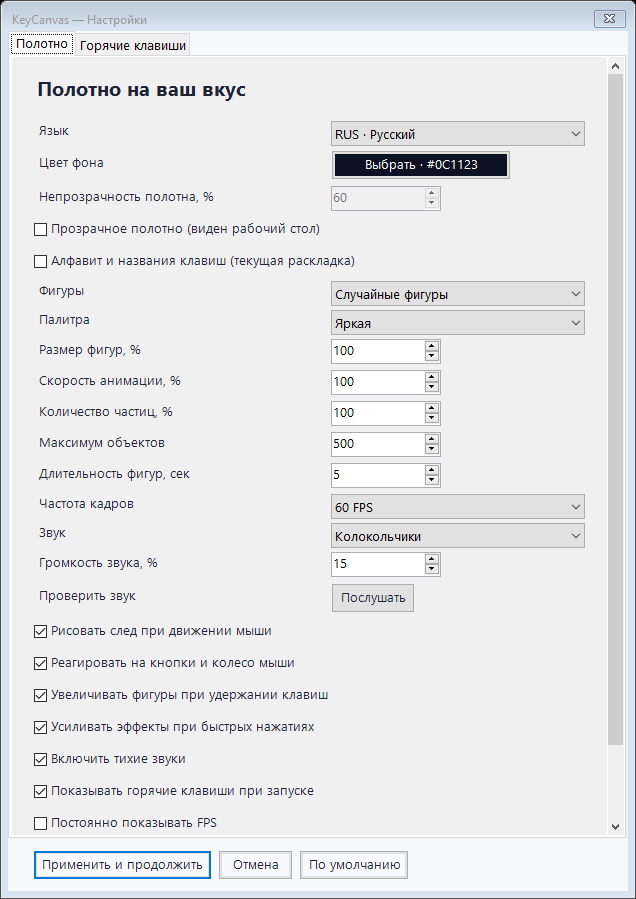
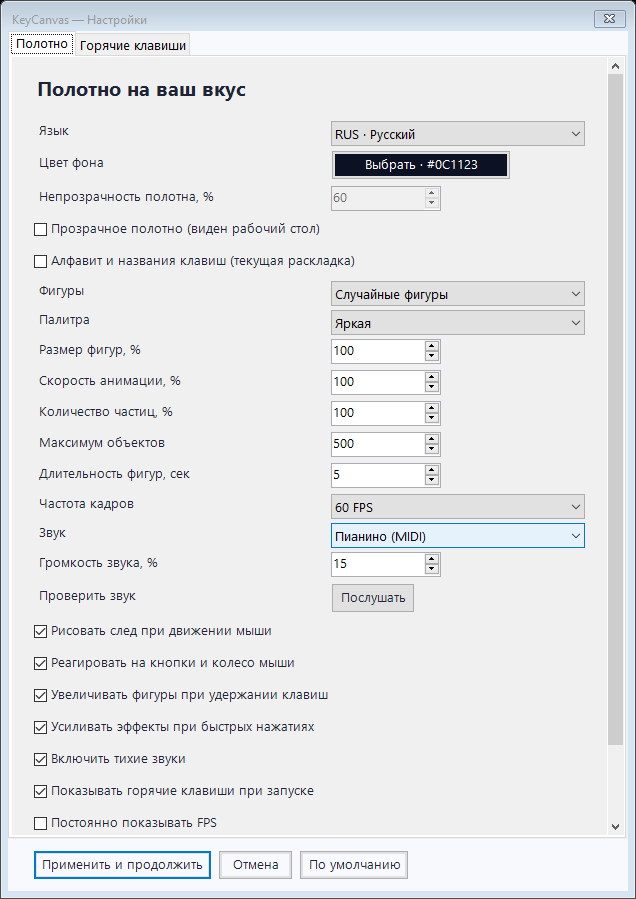
Restored soft sounds and fixed shared MIDI previews with piano as default

Changed region(s): [[0.5079, 0.5606, 0.9261, 0.6229]]

diff --git a/SoftCanvasSound.cs b/SoftCanvasSound.cs
@@ -1,0 +1,109 @@
+using System.Media;
+using System.Text;
+
+namespace KeyCanvas;
+
+internal sealed class SoftCanvasSound : IDisposable
+{
+    private static readonly double[] Notes = [261.63, 293.66, 329.63, 392, 440, 523.25, 587.33, 659.25];
+    private readonly List<SoundPlayer> players = new();
+    private readonly List<MemoryStream> streams = new();
+    private SoundStyle preparedStyle;
+    private int preparedVolume;
+    private bool enabled;
+    private double lastPlayed = double.NegativeInfinity;
+
+    internal void ApplySettings(CanvasSettings settings)
+    {
+        enabled = settings.SoundsEnabled && settings.SoundVolumePercent > 0;
+        if (!enabled)
+        {
+            Stop();
+            return;
+        }
+        if (players.Count > 0 && preparedStyle == settings.Sound && preparedVolume == settings.SoundVolumePercent)
+            return;
+        ClearPlayers();
+        for (int note = 0; note < Notes.Length; note++)
+        {
+            var stream = new MemoryStream(CreateWave(settings.Sound, settings.SoundVolumePercent, note));
+            var player = new SoundPlayer(stream);
+            streams.Add(stream);
+            players.Add(player);
+            player.Load(); // Cache the small PCM samples before receiving any key presses.
+        }
+        preparedStyle = settings.Sound;
+        preparedVolume = settings.SoundVolumePercent;
+    }
+
+    internal void Play(int key, double now)
+    {
+        // Limit rapid bursts; the most recent note replaces playback rather than building a queue.
+        if (!enabled || now - lastPlayed < .06 || players.Count == 0)
+            return;
+        lastPlayed = now;
+        players[(int)((uint)key % (uint)players.Count)].Play();
+    }
+
+    internal void Stop()
+    {
+        if (players.Count > 0)
+            players[0].Stop();
+    }
+
+    internal static byte[] CreateWave(SoundStyle style, int volumePercent, int note)
+    {
+        const int sampleRate = 22050;
+        const double duration = .4;
+        int samples = (int)(sampleRate * duration);
+        using var stream = new MemoryStream(44 + samples * 2);
+        using var writer = new BinaryWriter(stream, Encoding.ASCII, leaveOpen: true);
+        writer.Write("RIFF"u8);
+        writer.Write(36 + samples * 2);
+        writer.Write("WAVEfmt "u8);
+        writer.Write(16);
+        writer.Write((ushort)1); // PCM
+        writer.Write((ushort)1); // Mono
+        writer.Write(sampleRate);
+        writer.Write(sampleRate * 2);
+        writer.Write((ushort)2);
+        writer.Write((ushort)16);
+        writer.Write("data"u8);
+        writer.Write(samples * 2);
+        double frequency = Notes[note];
+        for (int i = 0; i < samples; i++)
+        {
+            double time = (double)i / sampleRate;
+            double phase = Math.Tau * frequency * time;
+            double value = style switch
+            {
+                SoundStyle.SoftPiano => Math.Sin(phase) * Math.Exp(-7 * time) +
+                    .35 * Math.Sin(phase * 2) * Math.Exp(-16 * time) + .12 * Math.Sin(phase * 3) * Math.Exp(-25 * time),
+                SoundStyle.SoftBells => Math.Sin(phase) * Math.Exp(-6 * time) +
+                    .35 * Math.Sin(phase * 2.76) * Math.Exp(-14 * time) + .15 * Math.Sin(phase * 5.4) * Math.Exp(-28 * time),
+                _ => Math.Sin(phase) * Math.Exp(-10 * time) +
+                    .5 * Math.Sin(phase * 3) * Math.Exp(-24 * time) + .2 * Math.Sin(phase * 6) * Math.Exp(-36 * time)
+            };
+            double envelope = Math.Min(1, time / .01) * Math.Min(1, (duration - time) / .03);
+            writer.Write((short)(value / 1.7 * envelope * volumePercent / 100 * .2 * short.MaxValue));
+        }
+        return stream.ToArray();
+    }
+
+    private void ClearPlayers()
+    {
+        Stop();
+        foreach (var player in players)
+            player.Dispose();
+        foreach (var stream in streams)
+            stream.Dispose();
+        players.Clear();
+        streams.Clear();
+    }
+
+    public void Dispose()
+    {
+        enabled = false;
+        ClearPlayers();
+    }
+}

diff --git a/SettingsForm.cs b/SettingsForm.cs
@@ -31,7 +31,8 @@ internal sealed class SettingsForm : Form
     private readonly CheckBox showFps = Toggle();
     private readonly CheckBox startupHints = new() { Name = "StartupHints", AutoSize = true, Margin = new Padding(0, 4, 0, 4) };
     private readonly CheckBox soundEnabled = Toggle();
-    private readonly CanvasSound previewSound = new();
+    private readonly CanvasSound previewSound;
+    private readonly bool ownsPreviewSound;
     private readonly List<(Control Control, string English, string Russian)> translations = new();
     private AppLanguage SelectedLanguage => (AppLanguage)language.SelectedIndex;
     private Color backgroundColor;
@@ -53,9 +54,12 @@ internal sealed class SettingsForm : Form
         ExitShortcut = exitShortcut.Selected, ClearShortcut = clearShortcut.Selected, MenuShortcut = menuShortcut.Selected
     };
 
-    internal SettingsForm(CanvasSettings settings)
+    internal SettingsForm(CanvasSettings settings, CanvasSound? sharedSound = null)
     {
+        ownsPreviewSound = sharedSound is null;
+        previewSound = sharedSound ?? new();
         language.Name = "Language";
+        sound.Name = "Sound";
         Font = bodyFont;
         BackColor = Color.FromArgb(248, 249, 252);
         ForeColor = Color.FromArgb(30, 36, 54);
@@ -104,7 +108,7 @@ internal sealed class SettingsForm : Form
             previewSound.ApplySettings(SelectedSettings with { SoundsEnabled = true });
             previewSound.Play(0, InputBuffer.Now);
             if (!previewSound.Available && SelectedSettings.SoundVolumePercent > 0)
-                MessageBox.Show(this, UiText.Pick(SelectedLanguage, "Windows MIDI output is unavailable.", "MIDI-устройство Windows недоступно."), Text);
+                MessageBox.Show(this, UiText.Pick(SelectedLanguage, "Could not open Windows MIDI output. It may be in use. You can choose a soft sound instead.", "Не удалось открыть MIDI-устройство Windows. Оно может быть занято. Можно выбрать мягкий звук."), Text);
         };
         AddRow(layout, "Sound preview", "Проверить звук", preview);
         Translate(trail, "Draw a trail when the mouse moves", "Рисовать след при движении мыши");
@@ -234,7 +238,8 @@ internal sealed class SettingsForm : Form
             ? ["Яркая", "Пастельная", "Тёплая", "Холодная"] : ["Bright", "Pastel", "Warm", "Cool"]);
         sound.Items.Clear();
         sound.Items.AddRange(SelectedLanguage == AppLanguage.Russian
-            ? ["Пианино", "Колокольчики", "Ксилофон", "Синтезатор"] : ["Piano", "Bells", "Xylophone", "Synthesizer"]);
+            ? ["Пианино (MIDI)", "Колокольчики (MIDI)", "Ксилофон (MIDI)", "Синтезатор (MIDI)", "Мягкое пианино", "Мягкие колокольчики", "Мягкий ксилофон"]
+            : ["Piano (MIDI)", "Bells (MIDI)", "Xylophone (MIDI)", "Synthesizer (MIDI)", "Soft piano", "Soft bells", "Soft xylophone"]);
         figures.SelectedIndex = figure;
         palette.SelectedIndex = colors;
         sound.SelectedIndex = timbre;
@@ -287,7 +292,10 @@ internal sealed class SettingsForm : Form
         base.Dispose(disposing);
         if (disposing)
         {
-            previewSound.Dispose();
+            if (ownsPreviewSound)
+                previewSound.Dispose();
+            else
+                previewSound.Stop();
             bodyFont.Dispose();
             headingFont.Dispose();
         }

diff --git a/tests/Program.cs b/tests/Program.cs
@@ -504,7 +504,7 @@ internal static class Program
             var defaults = new CanvasSettings();
             Check(defaults.Language == AppLanguage.English && defaults.ObjectLimit == 500 &&
                 defaults.FigureLifetimeSeconds == 5 && !defaults.ShowFps && !defaults.ShowFrameTiming && defaults.ShowStartupHints &&
-                defaults.SoundsEnabled && defaults.Sound == SoundStyle.Bells && defaults.SoundVolumePercent == 15,
+                defaults.SoundsEnabled && defaults.Sound == SoundStyle.Piano && defaults.SoundVolumePercent == 15,
                 "Other Windows languages must use English with the requested visual and FPS defaults.");
         }
         finally { CultureInfo.CurrentUICulture = original; }
@@ -760,8 +760,38 @@ internal static class Program
         audio.Update(held, InputBuffer.Now);
         audio.ApplySettings(new() { SoundsEnabled = false });
         audio.Play((int)Keys.A, InputBuffer.Now);
+        // The canvas keeps MIDI open while its menu previews instruments.
+        audio.ApplySettings(new() { Sound = SoundStyle.Piano });
+        bool midiAvailable = audio.Available;
+        Console.WriteLine(midiAvailable ? "MIDI preview output opened successfully." : "MIDI output unavailable; checking the original PCM sounds.");
+        using (var menu = new SettingsForm(new(), audio))
+        using (var host = ShowPreview(menu))
+        {
+            var layout = menu.Controls.Find("OptionsLayout", true).Single();
+            var choice = layout.Controls.OfType<ComboBox>().Single(control => control.Name == "Sound");
+            var listen = layout.Controls.OfType<Button>().Single(control => control.Name == "PreviewSound");
+            Check(choice.Items.Count == 7, "The original three sounds must remain alongside the four MIDI instruments.");
+            foreach (SoundStyle timbre in Enum.GetValues<SoundStyle>())
+            {
+                if (!midiAvailable && !CanvasSound.IsSoft(timbre)) continue;
+                choice.SelectedIndex = (int)timbre;
+                listen.PerformClick();
+                Check(audio.Available, "Menu preview must use the already-open audio output.");
+            }
+        }
+        audio.ApplySettings(new() { Sound = SoundStyle.Piano });
+        Check(!midiAvailable || audio.Available, "Closing the menu must not dispose the canvas audio output.");
+        foreach (SoundStyle timbre in new[] { SoundStyle.SoftPiano, SoundStyle.SoftBells, SoundStyle.SoftXylophone })
+        {
+            byte[] restored = SoftCanvasSound.CreateWave(timbre, 15, 0);
+            Check(restored.Length == 17684 && BitConverter.ToInt32(restored, 24) == 22050,
+                "Original sounds must retain their PCM format and duration.");
+            using var stream = new MemoryStream(restored);
+            using var player = new SoundPlayer(stream);
+            player.Load();
+        }
         var normalized = (new CanvasSettings { Sound = (SoundStyle)99, SoundVolumePercent = 999 }).Normalize();
-        Check(normalized.Sound == SoundStyle.Bells && normalized.SoundVolumePercent == 100,
+        Check(normalized.Sound == SoundStyle.Piano && normalized.SoundVolumePercent == 100,
             "Stored sound preferences must be constrained before playback.");
     }
     private static void SaveScreenshot(Form form, string path)

diff --git a/CanvasSound.cs b/CanvasSound.cs
@@ -9,8 +9,10 @@ internal sealed class CanvasSound : IDisposable
     private bool enabled;
     private int velocity;
     private SoundStyle style;
+    private readonly SoftCanvasSound softSounds = new();
+    internal static bool IsSoft(SoundStyle style) => style is SoundStyle.SoftPiano or SoundStyle.SoftBells or SoundStyle.SoftXylophone;
     private readonly System.Windows.Forms.Timer releases = new() { Interval = 25 };
-    internal bool Available => device != 0;
+    internal bool Available => IsSoft(style) || device != 0;
 
     internal CanvasSound()
     {
@@ -29,6 +31,9 @@ internal sealed class CanvasSound : IDisposable
         enabled = settings.SoundsEnabled && settings.SoundVolumePercent > 0;
         velocity = Math.Clamp((int)Math.Round(settings.SoundVolumePercent * 1.27), 1, 127);
         style = settings.Sound;
+        softSounds.ApplySettings(settings with { SoundsEnabled = enabled && IsSoft(style) });
+        if (IsSoft(style))
+            return;
         if (enabled && device == 0)
             midiOutOpen(out device, uint.MaxValue, 0, 0, 0);
         if (device != 0)
@@ -43,6 +48,11 @@ internal sealed class CanvasSound : IDisposable
 
     internal void Play(int key, double now, bool held = false)
     {
+        if (IsSoft(style))
+        {
+            softSounds.Play(key, now);
+            return;
+        }
         if (!enabled || device == 0)
             return;
         Release(key);
@@ -73,6 +83,7 @@ internal sealed class CanvasSound : IDisposable
     internal void Stop()
     {
         releases.Stop();
+        softSounds.Stop();
         if (device != 0)
         {
             Send(0xB0, 120, 0); // All sound off, including release tails when leaving the canvas.
@@ -100,6 +111,7 @@ internal sealed class CanvasSound : IDisposable
         }
         enabled = false;
         releases.Dispose();
+        softSounds.Dispose();
     }
 
     [DllImport("winmm.dll")] private static extern uint midiOutOpen(out nint handle, uint device, nint callback, nint instance, uint flags);

diff --git a/CanvasSettings.cs b/CanvasSettings.cs
@@ -4,7 +4,7 @@ namespace KeyCanvas;
 
 internal enum FigureStyle { Random, Circle, Triangle, Square, Star, Line, Ring }
 internal enum ColorPalette { Bright, Pastel, Warm, Cool }
-internal enum SoundStyle { Piano, Bells, Xylophone, Synthesizer }
+internal enum SoundStyle { Piano, Bells, Xylophone, Synthesizer, SoftPiano, SoftBells, SoftXylophone }
 
 internal sealed record CanvasSettings
 {
@@ -29,7 +29,7 @@ internal sealed record CanvasSettings
     public bool ShowFps { get; init; }
     public bool ShowStartupHints { get; init; } = true;
     public bool SoundsEnabled { get; init; } = true;
-    public SoundStyle Sound { get; init; } = SoundStyle.Bells;
+    public SoundStyle Sound { get; init; } = SoundStyle.Piano;
     public int SoundVolumePercent { get; init; } = 15;
     public bool AlphabetMode { get; init; }
     public bool TransparentCanvas { get; init; }
@@ -45,7 +45,7 @@ internal sealed record CanvasSettings
         var normalized = this with
         {
         Language = Enum.IsDefined(Language) ? Language : AppLanguage.English,
-        Sound = Enum.IsDefined(Sound) ? Sound : SoundStyle.Bells,
+        Sound = Enum.IsDefined(Sound) ? Sound : SoundStyle.Piano,
         SoundVolumePercent = Math.Clamp(SoundVolumePercent, 0, 100),
         CanvasOpacityPercent = Math.Clamp(CanvasOpacityPercent, 10, 100),
         ExitShortcut = (ExitShortcut ?? DefaultExit).Normalize(DefaultExit),

diff --git a/CanvasForm.cs b/CanvasForm.cs
@@ -277,7 +277,7 @@ internal sealed class CanvasForm : Form
         SetCanvasActive(false);
         try
         {
-            using var menu = new SettingsForm(settings);
+            using var menu = new SettingsForm(settings, sounds);
             // Center on the primary display instead of the midpoint between monitors.
             menu.StartPosition = FormStartPosition.Manual;
             var screen = (Screen.PrimaryScreen ?? Screen.AllScreens[0]).WorkingArea;
@@ -300,7 +300,6 @@ internal sealed class CanvasForm : Form
                 BackColor = Color.FromArgb(settings.BackgroundArgb);
                 Opacity = settings.TransparentCanvas ? settings.CanvasOpacityPercent / 100.0 : 1;
                 scene.ApplySettings(settings);
-                sounds.ApplySettings(settings);
                 repaintNeeded = true;
                 clock?.SetFrameRate(settings.FramesPerSecond);
                 try
@@ -318,6 +317,7 @@ internal sealed class CanvasForm : Form
         }
         finally
         {
+            sounds.ApplySettings(settings);
             settingsOpen = false;
             previousFrame = InputBuffer.Now;
             SetCanvasActive(NativeMethods.GetForegroundWindow() == Handle && NativeMethods.IsInputDesktop(canvasDesktop));

diff --git a/README.md b/README.md
@@ -68,14 +68,18 @@ toggled separately.
 
 Defaults: **500 objects**, **5-second shape lifetime**, **60 FPS target**.
 Particles have shorter lifetimes. Old objects fade to keep the scene bounded.
-Quiet **bells are enabled by default**, at **15% application volume**.
-Choose piano, bells, xylophone or synthesizer, adjust the volume, or uncheck
+Quiet **piano is enabled by default**, at **15% application volume**.
+Choose piano, bells, xylophone or synthesizer (MIDI), or the original soft piano,
+soft bells and soft xylophone. Adjust the volume, or uncheck
 **Enable quiet sounds**. **Listen** previews the selected instrument.
-Sound uses the Windows General MIDI synthesizer. Multiple notes can sound
+MIDI instruments use the Windows General MIDI synthesizer. Multiple notes can sound
 together; holding a key holds its note, and releasing it sends note-off.
 Piano and percussion naturally decay even during a hold. Mouse clicks and
 scrolling play short notes; movement remains silent. Instrument quality and
-availability depend on the Windows MIDI output device.
+availability depend on the Windows MIDI output device. The original three soft
+sounds use cached PCM audio and do not require MIDI. They play short notes,
+with rapid presses replacing the previous note. The menu shares the canvas
+MIDI output for previews and restores the chosen instrument after cancellation.
 
 Enable **Alphabet and key names** to draw letters, numbers and key names
 instead of keyboard shapes. Letters follow the current keyboard layout,
